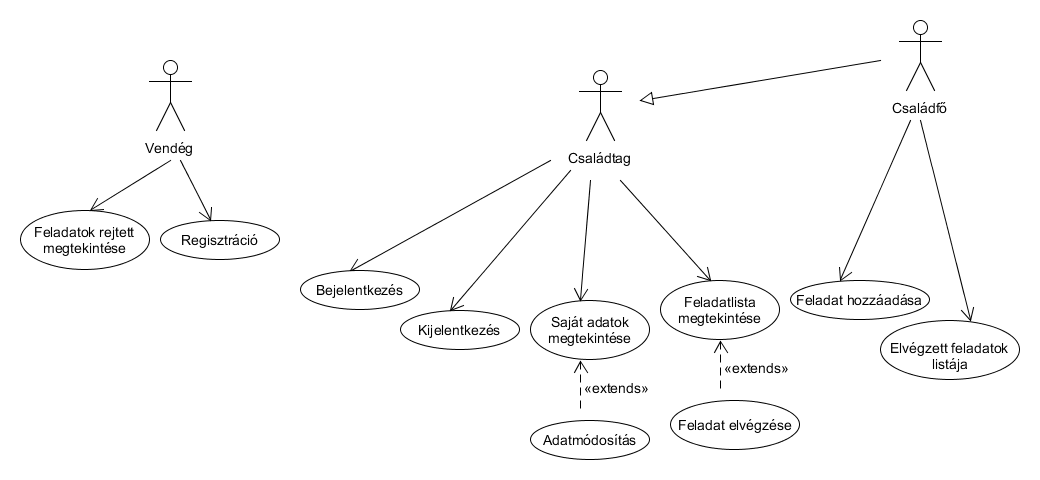
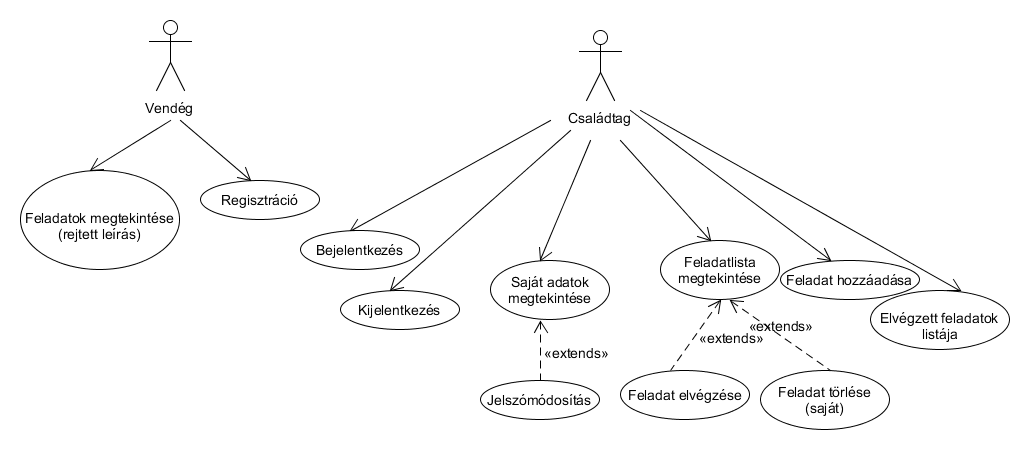
doc 90%

diff --git a/README.md b/README.md
@@ -63,16 +63,19 @@ Felhasználó bejelentkezése
 
 ##Végpontok
 + **GET/:** feladatlista megtekintése
-+ **POST/:** feladat elvégzésének beküldése
 + **GET/reg:** regisztrációs oldal megtekintése
 + **POST/reg:** regisztrációs kérés küldése
-+ **GET/login:** bejelentkező oldal
++ **GET/login:** bejelentkező oldal megtekintésée
 + **POST/login:** bejelentkezési adatok küldése
-+ **GET/profile:** profil megtekintése
-+ **POST/profile:** profil frissítése
-+ **GET/add:** új feladat hozzáadásának űrlapja
-+ **POST/add:** új feladat beküldése
-+ **GET/history:** elvégzett feladatok listája
++ **GET/logout:** kijelentkezés kérése
++ **GET/do/:id:** feladatelvégzés jelentésének kérése
++ **GET/del/:id:** feladattörlés kérése
++ **GET/history:** elvégzett feladatok listájának megtekintése
++ **GET/password:** jelszómódosító oldal megtekintése
++ **POST/password:** jelszófrissítés küldése
++ **GET/add:** feladathozzáadás oldalának megtekintése
++ **POST/add:** feladathozzáadás kérésének küldés
+
 
 ##Vázlatok
 Főoldal, feladatlista  
